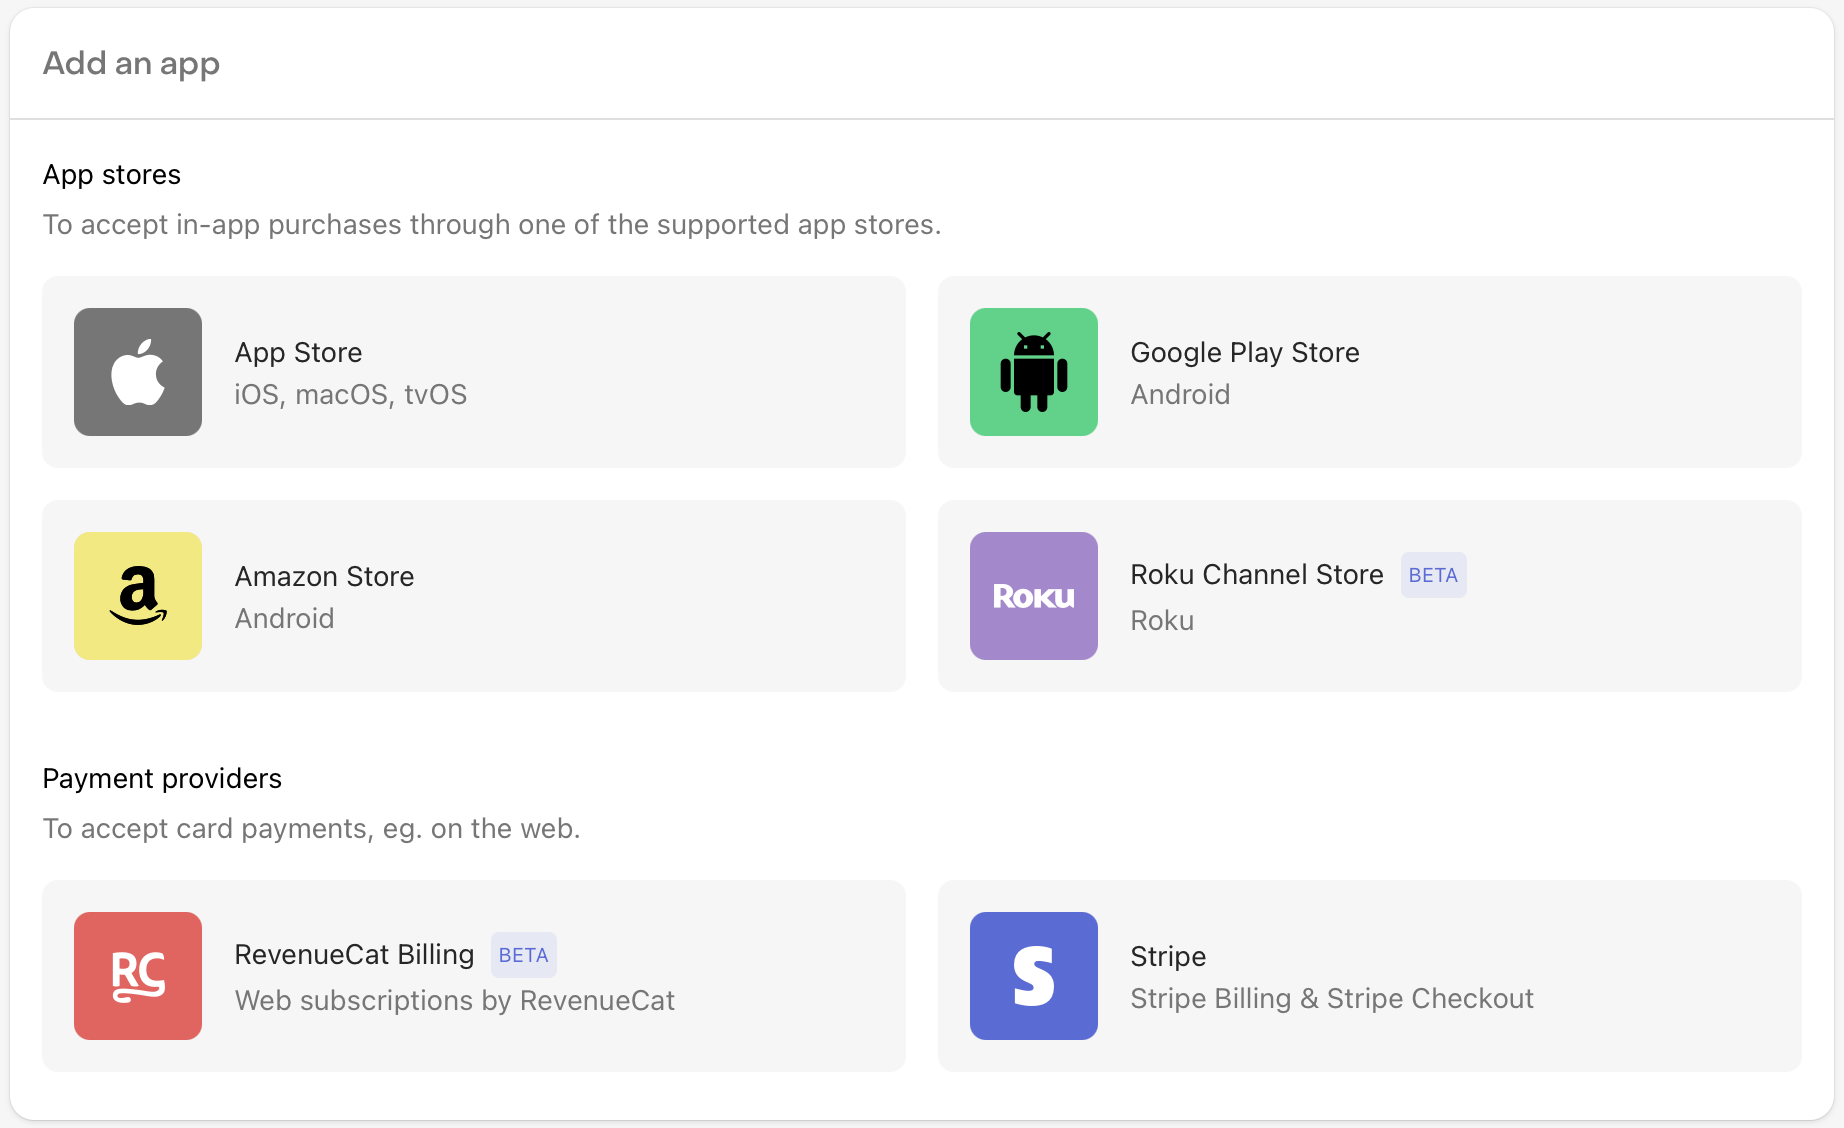
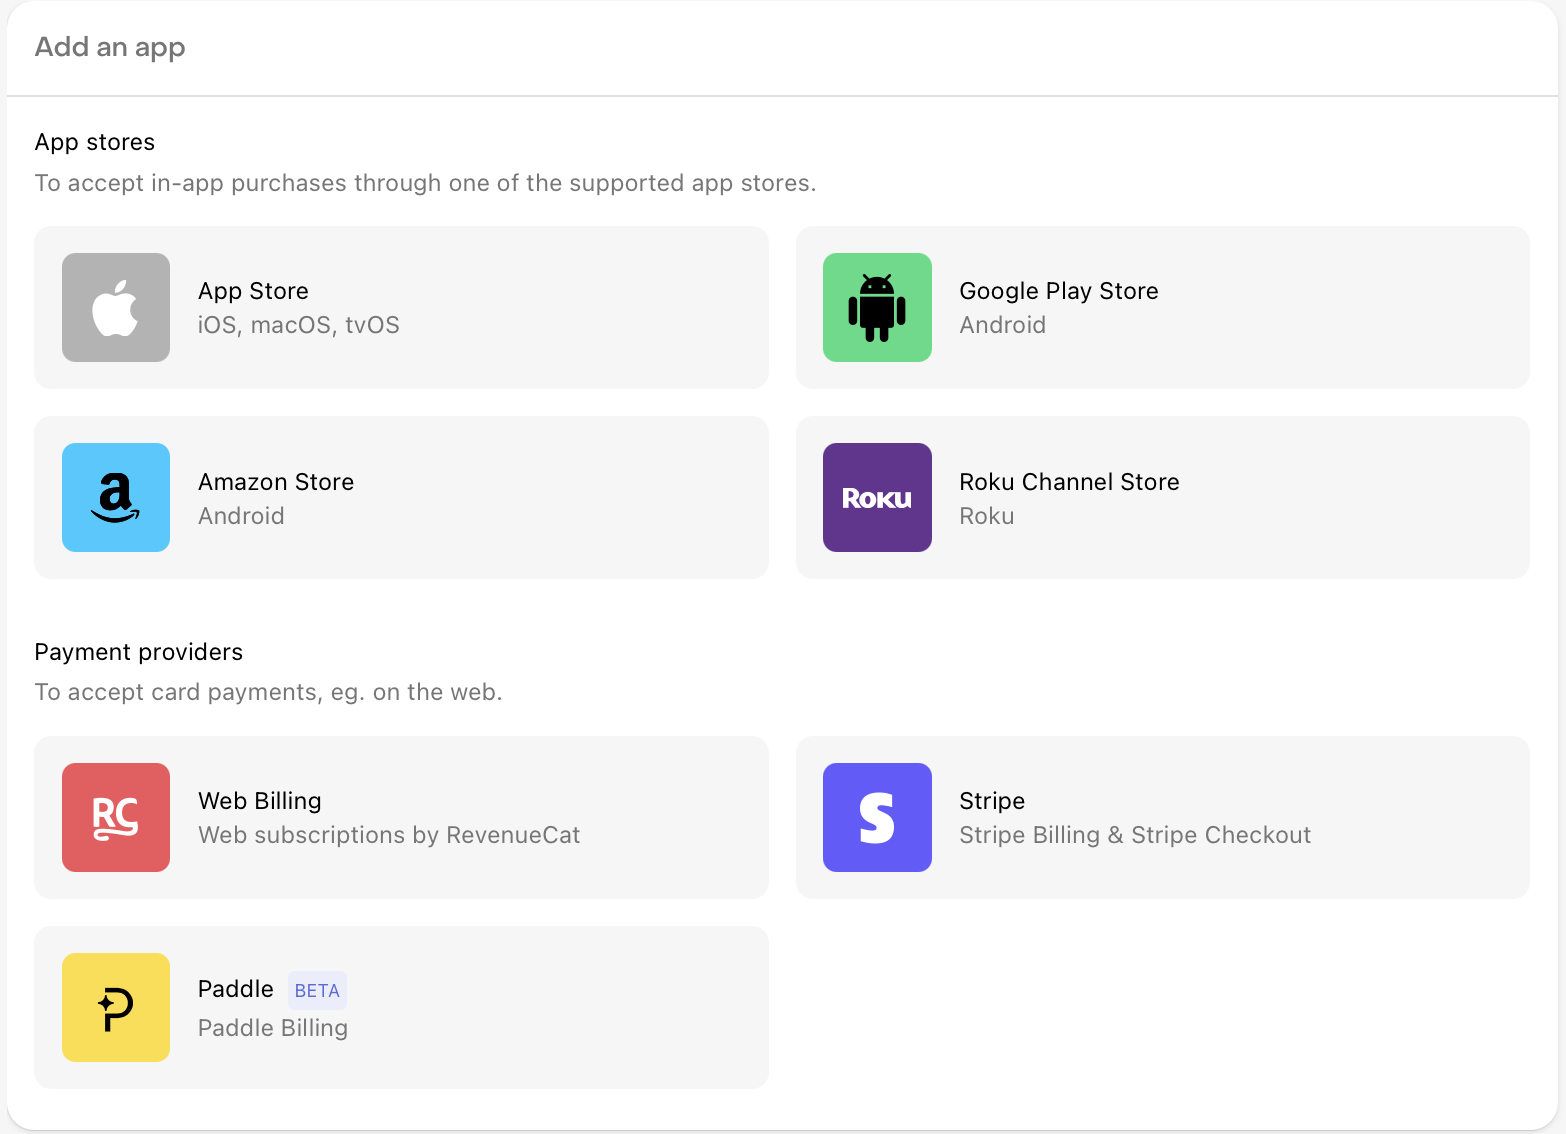
paddle additional beta documentation

diff --git a/docs/getting-started/entitlements/paddle-products.md b/docs/getting-started/entitlements/paddle-products.md
@@ -5,24 +5,32 @@ excerpt: Setting up products in the Paddle Dashboard
 hidden: false
 ---
 
-To set up products for Paddle, start by logging into the Paddle Dashboard. This guide assumes basic knowledge of Paddle and the Paddle Dashboard. For more information, visit Paddle's [documentation and guides for the Dashboard](https://paddle.com/docs).
+To set up products for Paddle, start by logging into the Paddle Dashboard. This guide assumes basic knowledge of Paddle and the Paddle Dashboard. For more information, visit Paddle's [documentation and guides](https://paddle.com/docs).
+
 
 ## Create a new Product
 
-To create a new product, expand the **Catalog** section in the sidebar and click **Product**.
+To create a new product, expand the **Catalog** section in the sidebar and click **Products**.
 
 On the top right corner of the page, click **New Product**.
 
+Enter the product name and any other optional details like a description then click **Save**.
+
 ![](/images/paddle/create-product.png)
 
-Enter a name for the product and click **Save**.
 
 Then on the prices section, click **New Price**.
+Enter details like the base price, the type of pricing (recurring or one-time), the billing period, and any trial periods you are offering and click **Save**.
 
 ![](/images/paddle/create-price.png)
 
-Enter a base price, select the type of pricing (recurring or one-time) and click **Save**.
+:::info Product Mapping between RevenueCat and Paddle
+A Price in Paddle maps to a Product in the RevenueCat system. So for example, if you create two prices under the same Paddle product, when you import or manually create the products in the RevenueCat dashboard, you'll notice two separate products.
 
+![](/images/paddle/paddle_dashboard_prices.png)
+![](/images/paddle/revenuecat_paddle_product_mapping.png)
+
+:::
 
 ## Integrate with RevenueCat
 

diff --git a/docs/platform-resources/server-notifications.md b/docs/platform-resources/server-notifications.md
@@ -17,10 +17,11 @@ If you are looking to _consume_ notifications about subscription purchases on yo
 - Google Real-Time Developer Notifications: [Setup →](/platform-resources/server-notifications/google-server-notifications)
 - Amazon Appstore Real-time Notifications: [Setup →](/platform-resources/server-notifications/amazon-server-notifications)
 - Stripe Server Notifications: [Setup →](/platform-resources/server-notifications/stripe-server-notifications) (Required for Stripe)
+- Paddle Server Notifications: [Setup →](/platform-resources/server-notifications/paddle-server-notifications.md)
 
 ## Confirming Connection
 
-You can confirm the Apple, Google, and/or Stripe notifications are being delivered properly to RevenueCat by observing the '_Last received_' timestamp next to the section header.
+You can confirm the Apple, Google, Stripe, and/or Paddle notifications are being delivered properly to RevenueCat by observing the '_Last received_' timestamp next to the section header.
 
 If you've had subscription activity in your app but this value is missing or stale, double check the configuration steps above.
 

diff --git a/docs/projects/connect-a-store.md b/docs/projects/connect-a-store.md
@@ -60,6 +60,12 @@ Stripe is a popular payment processor that allows you to accept payments from cu
 
 - [Learn more about Stripe](/web/integrations/stripe)
 
+#### Paddle
+
+Paddle is a popular all-in-one payment infrastructure that allows you to accept payments from customers and acts as a merchant of record. RevenueCat integrates with Paddle to allow you to easily offer subscriptions and manage your customers.
+
+- [Learn more about Paddle](/web/integrations/paddle)
+
 ## Platform Server Notifications
 
 After adding your app, we recommend setting up [Platform Server Notifications](/platform-resources/server-notifications). These notifications will ensure RevenueCat is notified of purchases and subscription events as soon as possible, and will speed up [webhooks](/integrations/webhooks) and integration delivery times.

diff --git a/docs/offerings/products-overview.md b/docs/offerings/products-overview.md
@@ -18,6 +18,7 @@ No matter how you choose to use RevenueCat, you'll need to first have products s
 - **[Android / Google Play Console ](/getting-started/entitlements/android-products)**
 - **[Android / Amazon Appstore ](/getting-started/entitlements/amazon-product-setup)**
 - **[Stripe ](/getting-started/entitlements/stripe-products)**
+- **[Paddle ](/getting-started/entitlements/paddle-products)**
 
 ### Free trials, promotional offers, and other product configuration
 
